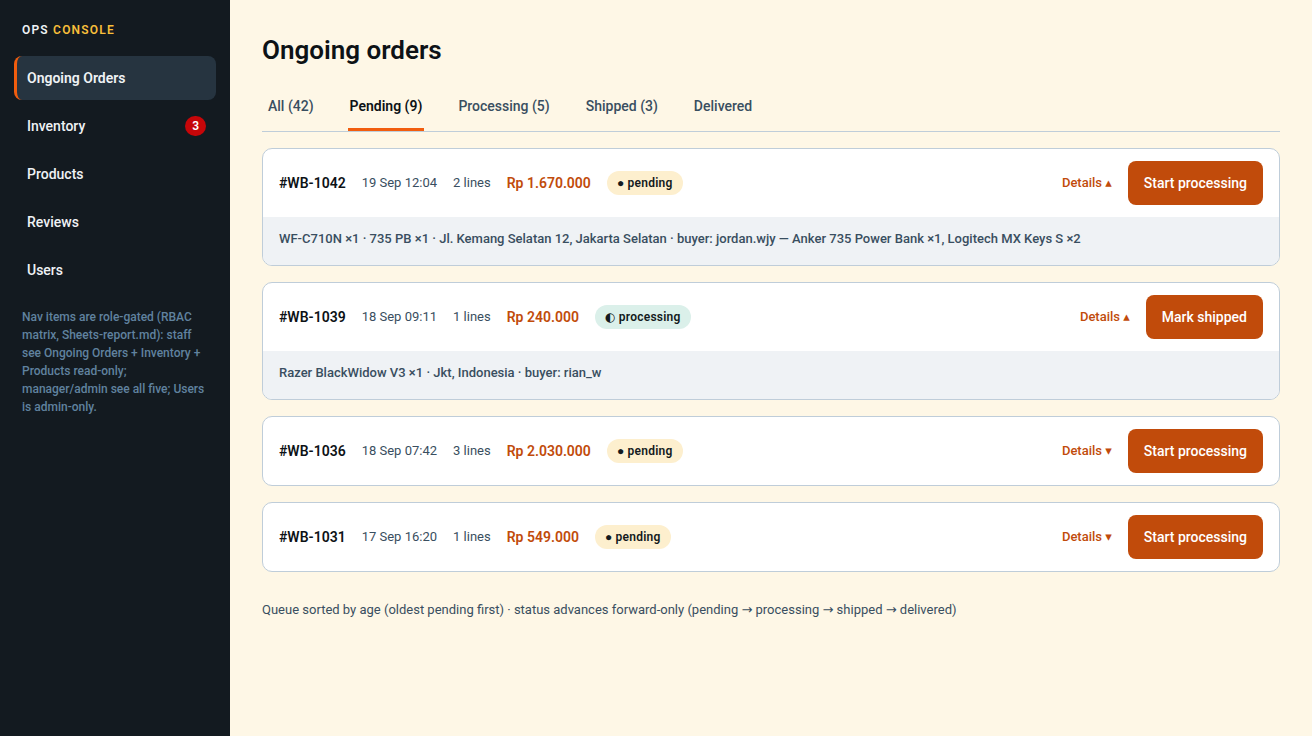
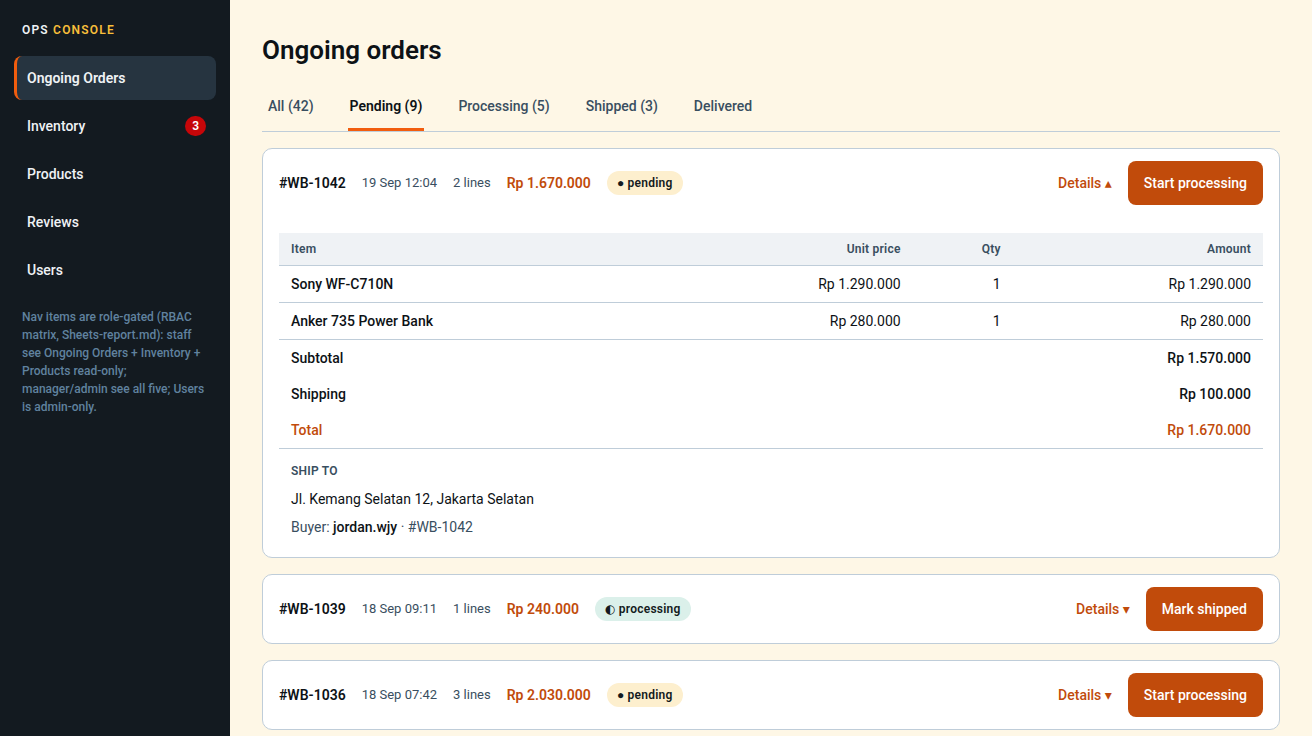
feat(mockup): round-9 receipt-style order details on ongoing-orders
pages_ops.py: orow() now renders a receipt table in the expanded detail —
itemized rows (Item/Unit price/Qty/Amount, amount cols right-aligned),
Subtotal/Shipping/Total rows (Total in atomicTangerine-600), and a Ship-to
block (address + buyer contact) below the table, wrapped in the existing
white order card. #WB-1042 expanded by default; all other rows collapse
to Details (arrow-down). Roboto 400/500, 14/20 rows, blueSlate-50 header
row, 1px blueSlate-200 dividers; 8px cell padding under 768px.

docs/ongoing-orders/design.md: receipt-table feature, wireframe, color
rows, mobile note. docs/ongoing-orders/mockup.png: re-rendered.
Conformance gate CLEAN vs lock 49b7610.

Changed region(s): [[0.1875, 0.3125, 1.0, 1.0], [0.8125, 0.2188, 0.8438, 0.2812]]

diff --git a/_mockup-build/pages_ops.py b/_mockup-build/pages_ops.py
@@ -50,6 +50,38 @@ padding:0 12px;font-size:14px;font-weight:500;color:var(--bs-950);background:#ff
 .hint{color:var(--sr-700);font-size:13px;font-weight:500}
 .btn-c{min-height:44px;padding:0 16px}
 .btn-s{min-height:44px;padding:0 16px}
+/* receipt-style order details (round 9, docs/ongoing-orders/design.md):
+   itemized table + totals + ship-to block inside the white order card */
+.receipt{font-family:var(--font-sans);font-size:14px;line-height:20px;font-weight:400;color:var(--bs-950)}
+.receipt table{width:100%;border-collapse:collapse}
+.receipt th{background:var(--bs-50);font-weight:600;font-size:12px;line-height:16px;letter-spacing:.02em;
+color:var(--bs-700);text-align:left;padding:8px 12px;border-bottom:1px solid var(--bs-200)}
+.receipt th.r{text-align:right}
+.receipt td{padding:8px 12px;border-bottom:1px solid var(--bs-200);font-weight:400}
+.receipt td.r{text-align:right}
+.receipt tr:last-child td{border-bottom:none}
+.receipt .line-name{font-weight:500}
+.receipt .totrow td{font-weight:500;border-bottom:none}
+.receipt .totrow.grand td{color:var(--at-600)}
+.receipt .ship{padding:12px 12px 4px;border-top:1px solid var(--bs-200)}
+.receipt .ship-h{font-size:12px;font-weight:600;letter-spacing:.02em;color:var(--bs-700);
+text-transform:uppercase;margin-bottom:8px}
+.receipt .ship-t{font-size:14px;line-height:20px;color:var(--bs-950)}
+.receipt .ship-c{margin-top:8px;font-size:14px;line-height:20px;color:var(--bs-700)}
+.receipt .ship-c b{font-weight:500;color:var(--bs-950)}
+@media (max-width:767px){
+.receipt th,.receipt td{padding:8px 8px}
+}
+/* expandable "Details" link: idle ▾, open ▴ */
+.details-link{color:var(--at-600);font-weight:500;font-size:14px;cursor:pointer}
+.details-link:hover{color:var(--at-700)}
+/* round 9 (docs/per-product-dashboard/design.md): repeatable name/value
+   spec-pair rows in the editor's Specs card — the section grid matches the
+   editor's 2-col `130px 1fr` label/value pattern; each value cell pairs the
+   input with a 44px trash remove control; "+ Add spec" appends an empty pair. */
+.specs-grid{display:grid;grid-template-columns:130px 1fr;gap:16px 24px;align-items:center}
+.specs-pair{display:grid;grid-template-columns:1fr 44px;gap:24px;align-items:center;min-height:44px}
+.specs-trash{justify-self:end;width:44px;height:44px;min-width:44px;min-height:44px;padding:0}
 /* round 6 (docs/per-product-review-panel/design.md): no .approve — reviews are public on
    submission; the only actions are hide/unhide + seller comment. Unhide is reversible,
    non-destructive → willowGreen-600 text on the secondary shape, not danger-colored. */
@@ -152,6 +184,23 @@ PAGES["per-product-dashboard"] = ops_shell(
           <div class="input wfull" style="min-height:64px;font-size:14px;color:var(--bs-950)">Active noise cancellation, Bluetooth 5.3 multipoint, up to 13 h battery with case, IPX4.</div>
           <label class="label">Initial stock</label><input class="input wfull" style="max-width:120px" value="34">
         </div>
+        <!-- round 9 (docs/per-product-dashboard/design.md): repeatable name/value
+             spec-pair section — mirrors the product-details specs table (same 6
+             pairs for P-231). White surface card per round-8 §12 rule. -->
+        <div style="margin-top:24px;padding-top:16px;border-top:1px solid var(--bs-200)">
+          <div class="sec-label" style="margin-bottom:16px">Specs</div>
+          <div style="background:#fff;border:1px solid var(--bs-200);border-radius:12px;padding:16px">
+            <div class="specs-grid">
+              <div class="specs-row"><input class="input wfull" value="Model" aria-label="Spec name" style="min-height:44px"><div style="display:grid;grid-template-columns:1fr 44px;gap:24px;align-items:center;min-height:44px"><input class="input wfull" value="WF-C710N" aria-label="Spec value" style="min-height:44px"><button class="btn-del specs-trash" aria-label="Remove spec">{glyph("trash",16)}</button></div></div>
+              <div class="specs-row"><input class="input wfull" value="Bluetooth" aria-label="Spec name" style="min-height:44px"><div style="display:grid;grid-template-columns:1fr 44px;gap:24px;align-items:center;min-height:44px"><input class="input wfull" value="5.3, multipoint" aria-label="Spec value" style="min-height:44px"><button class="btn-del specs-trash" aria-label="Remove spec">{glyph("trash",16)}</button></div></div>
+              <div class="specs-row"><input class="input wfull" value="Battery" aria-label="Spec name" style="min-height:44px"><div style="display:grid;grid-template-columns:1fr 44px;gap:24px;align-items:center;min-height:44px"><input class="input wfull" value="13 h w/ case" aria-label="Spec value" style="min-height:44px"><button class="btn-del specs-trash" aria-label="Remove spec">{glyph("trash",16)}</button></div></div>
+              <div class="specs-row"><input class="input wfull" value="ANC" aria-label="Spec name" style="min-height:44px"><div style="display:grid;grid-template-columns:1fr 44px;gap:24px;align-items:center;min-height:44px"><input class="input wfull" value="yes" aria-label="Spec value" style="min-height:44px"><button class="btn-del specs-trash" aria-label="Remove spec">{glyph("trash",16)}</button></div></div>
+              <div class="specs-row"><input class="input wfull" value="IP rating" aria-label="Spec name" style="min-height:44px"><div style="display:grid;grid-template-columns:1fr 44px;gap:24px;align-items:center;min-height:44px"><input class="input wfull" value="IPX4" aria-label="Spec value" style="min-height:44px"><button class="btn-del specs-trash" aria-label="Remove spec">{glyph("trash",16)}</button></div></div>
+              <div class="specs-row"><input class="input wfull" value="Weight" aria-label="Spec name" style="min-height:44px"><div style="display:grid;grid-template-columns:1fr 44px;gap:24px;align-items:center;min-height:44px"><input class="input wfull" value="5.4 g per bud" aria-label="Spec value" style="min-height:44px"><button class="btn-del specs-trash" aria-label="Remove spec">{glyph("trash",16)}</button></div></div>
+            </div>
+            <button class="btn-sec btn-s" style="margin-top:16px">{glyph("plus",16)} Add spec</button>
+          </div>
+        </div>
         <div style="margin-top:24px;padding-top:16px;border-top:1px solid var(--bs-200);display:flex;justify-content:space-between;align-items:center">
           <span class="muted">Auto-decremented on each order — enter actual shelf count</span>
           <button class="btn-p">Save changes</button>
@@ -215,20 +264,43 @@ PAGES["per-product-review-panel"] = ops_shell(
     "Per Product Review Panel")
 
 # ---------------- ongoing orders ----------------
-def orow(oid, dt, lines_n, total, chipcls, chipicon, chiptext, action, expanded=False, detail=None):
-    exp = f'<div style="padding:12px 16px 16px;font-size:13px;color:var(--bs-700);background:var(--bs-50);border-radius:0 0 8px 8px">{detail}</div>' if expanded else ""
+def orow(oid, dt, lines_n, total, chipcls, chipicon, chiptext, action, expanded=False, receipt=None):
+    exp = ""
+    if expanded and receipt:
+        exp = f'<div class="receipt" style="padding:16px" aria-label="Order {oid} details">{receipt}</div>'
     act = f'<button class="btn-p btn-c">{action}</button>' if action else ""
     return f'''<div style="background:#fff;border:1px solid var(--bs-200);border-radius:10px;overflow:hidden;margin-bottom:16px">
-    <div style="display:flex;align-items:center;gap:16px;padding:12px 16px;min-height:64px">
-      <span style="font-weight:600;color:var(--bs-950)">{oid}</span>
+    <div style="display:flex;align-items:center;gap:16px;padding:12px 16px;min-height:64px;flex-wrap:wrap">
+      <span style="font-weight:600;color:var(--bs-950);font-size:14px">{oid}</span>
       <span class="opsub">{dt}</span>
       <span class="opsub">{lines_n} lines</span>
       <span class="price">{total}</span>
       <span class="ochip {chipcls}">{chipicon} {chiptext}</span>
       <div style="margin-left:auto;display:flex;gap:16px;align-items:center">
-        <a class="link" href="#">{"Details ▴" if expanded else "Details ▾"}</a>
+        <a class="details-link" href="#" aria-expanded="{"true" if expanded else "false"}">{"Details ▴" if expanded else "Details ▾"}</a>
         {act}
       </div></div>{exp}</div>'''
+
+def receipt(lines, subtotal, shipping, total, address, buyer, order_ref):
+    """lines: list of (name, unit_price, qty, line_amount) — amount columns right-aligned."""
+    rows = ""
+    for name, unit, qty, amt in lines:
+        rows += f'''<tr><td class="line-name">{name}</td><td class="r">Rp {unit}</td><td class="r">{qty}</td><td class="r">Rp {amt}</td></tr>'''
+    ship_line = "Free" if shipping == "0" else f"Rp {shipping}"
+    return f'''<table>
+    <thead><tr><th>Item</th><th class="r">Unit price</th><th class="r">Qty</th><th class="r">Amount</th></tr></thead>
+    <tbody>
+    {rows}
+    <tr class="totrow"><td colspan="3">Subtotal</td><td class="r">Rp {subtotal}</td></tr>
+    <tr class="totrow"><td colspan="3">Shipping</td><td class="r">{ship_line}</td></tr>
+    <tr class="totrow grand"><td colspan="3">Total</td><td class="r">Rp {total}</td></tr>
+    </tbody>
+    </table>
+    <div class="ship">
+      <div class="ship-h">Ship to</div>
+      <div class="ship-t">{address}</div>
+      <div class="ship-c">Buyer: <b>{buyer}</b> · {order_ref}</div>
+    </div>'''
 
 PAGES["ongoing-orders"] = ops_shell(
     "Ongoing Orders",
@@ -241,9 +313,11 @@ PAGES["ongoing-orders"] = ops_shell(
       <span class="tab">All (42)</span><span class="tab active">Pending (9)</span><span class="tab">Processing (5)</span><span class="tab">Shipped (3)</span><span class="tab">Delivered</span>
     </div>
     {orow("#WB-1042","19 Sep 12:04","2","Rp 1.670.000","ochip-pending","●","pending","Start processing",True,
-         "WF-C710N ×1 · 735 PB ×1 · Jl. Kemang Selatan 12, Jakarta Selatan · buyer: jordan.wjy — Anker 735 Power Bank ×1, Logitech MX Keys S ×2")}
-    {orow("#WB-1039","18 Sep 09:11","1","Rp 240.000","ochip-processing","◐","processing","Mark shipped",True,
-         "Razer BlackWidow V3 ×1 · Jkt, Indonesia · buyer: rian_w")}
+         receipt([("Sony WF-C710N","1.290.000","1","1.290.000"),
+                  ("Anker 735 Power Bank","280.000","1","280.000")],
+                 "1.570.000","100.000","1.670.000",
+                 "Jl. Kemang Selatan 12, Jakarta Selatan","jordan.wjy","#WB-1042"))}
+    {orow("#WB-1039","18 Sep 09:11","1","Rp 240.000","ochip-processing","◐","processing","Mark shipped")}
     {orow("#WB-1036","18 Sep 07:42","3","Rp 2.030.000","ochip-pending","●","pending","Start processing")}
     {orow("#WB-1031","17 Sep 16:20","1","Rp 549.000","ochip-pending","●","pending","Start processing")}
     <div class="meta" style="margin-top:auto;padding-top:12px">Queue sorted by age (oldest pending first) · status advances forward-only (pending → processing → shipped → delivered)</div>

diff --git a/docs/ongoing-orders/design.md b/docs/ongoing-orders/design.md
@@ -34,6 +34,13 @@ ops mirror of Orders Placed.
 - **Domain examples (electronics):** expanded detail shows line models +
   quantities (e.g. "Anker 735 Power Bank ×1, Logitech MX Keys S ×2"); no fields
   beyond the sheet's locked set (lines, address, buyer contact).
+- **Receipt-style detail (round 9):** the expanded detail is a receipt table,
+  not a single summary line — itemized rows (Item, Unit price, Qty, Amount —
+  amount columns right-aligned), then Subtotal / Shipping / Total rows (Total in
+  `atomicTangerine-600`), then a Ship-to block (address + buyer contact) below
+  the table, all inside the existing white order card. `#WB-1042` is expanded
+  by default in the mockup to show the receipt; all other rows collapse to
+  "Details ▾".
 - **Staff capability boundary:** staff can advance status and see alerts
   (their whole scope: "daily transaction ops: order status, product
   alerts"). No product CRUD, no review moderation, no user management —
@@ -54,7 +61,7 @@ ops mirror of Orders Placed.
 
 ![Ongoing orders dashboard mockup](mockup.png)
 
-> mockup.png rendered from _mockup-build/out/ongoing-orders.html via headless Chromium @ 2026-09-22
+> mockup.png rendered from _mockup-build/out/ongoing-orders.html via headless Chromium @ 2026-09-23 (round-9 receipt-table refresh)
 
 
 ASCII wireframe (desktop, list variant — assumption, kanban is a flagged alt;
@@ -67,18 +74,29 @@ vertical 230px dark ops sidebar, not a top bar):
 | > Ongoing Orders | All(42)  Pending(9)  Processing(5)  Shipped(3)  Delivered |
 | Inventory [3]    |+-------------------------------------------------------|
 | Products         | | #WB-1042 · 19 Sep 12:04 · 2 lines · Rp 1.670.000 [● pending] |
-| Reviews          | |   [ Start processing ]  [ Details ▴ ]                |
-| Users            | |   (detail: WF-C710N ×1 · 735 PB ×1 · Jl. Kemang Selatan 12,  |
-|                  | |    Jakarta Selatan · buyer: jordan.wjy)               |
+| Reviews          | |   [ Start processing ]   [ Details ▴ ]             |
+| Users            | |   +-------------------------------------------+   |
+|                  |   | Item              | Unit price | Qty | Amount |   |
+|                  |   | Sony WF-C710N     | 1.290.000  |  1 | 1.290.000|   |
+|                  |   | Anker 735 PB      | 280.000    |  1 | 280.000  |   |
+|                  |   | Subtotal          |            |    | 1.570.000|   |
+|                  |   | Shipping          |            |    | 100.000  |   |
+|                  |   | Total             |            |    | 1.670.000|   |
+|                  |   | SHIP TO: Jl. Kemang Selatan 12, Jakarta Selatan     |   |
+|                  |   | Buyer: jordan.wjy · #WB-1042                    |   |
+|                  |   +-------------------------------------------+   |
 |                  |+-------------------------------------------------------|
-|                  | | #WB-1039 · 18 Sep 09:11 · 1 lines · Rp 240.000 [◐ processing]|
-|                  | |   [ Mark shipped ]      [ Details ▴ ]                |
+|                  | | #WB-1039 · 18 Sep 09:11 · 1 lines · Rp 240.000 [◐ processing] |
+|                  | |   [ Mark shipped ]      [ Details ▾ ]                |
 |                  | Queue sorted by age · status advances forward-only      |
 +------------------+-------------------------------------------------------+
 ```
 
 Mobile (<768px): cards stack; filter tabs scroll horizontally; expand
-details in place.
+details in place. The receipt table tightens its cell padding to 8px so all
+four columns (Item / Unit price / Qty / Amount) stay on one row at 390px —
+verified no horizontal overflow; order header rows wrap (flex-wrap) rather
+than clip.
 
 ## COLOR USAGE
 
@@ -89,6 +107,9 @@ details in place.
 | Status chips (pending/processing/shipped/delivered) | 12/600 pill chips, padding 4×10, per color-tokens §3: `tuscanSun-100` / `seagrass-100` / `blueSlate-100` / `willowGreen-100` tints, text `blueSlate-900` |
 | Advance button (primary per row) | filled `atomicTangerine-600` idle → `-700` hover → `-800` active, white 14/500 label, 44px min-height, 8px radius; disabled = `blueSlate-100` fill + `blueSlate-400` label |
 | "Details" toggle | `atomicTangerine-600` link |
+| Receipt table header row (`.receipt th`) | `blueSlate-50` bg, 12/600 `blueSlate-700` label, 1px `blueSlate-200` divider below |
+| Receipt item rows / totals rows | 14/20 Roboto 400; item name weight 500; Subtotal/Shipping weight 500 `blueSlate-950`; Total row weight 500 in `atomicTangerine-600` (frame cap: font-weight ≤ 600); 1px `blueSlate-200` row dividers (none under last row) |
+| Ship-to block (`.receipt .ship`) | 12/600 uppercase `blueSlate-700` "SHIP TO" label; address 14/20 `blueSlate-950`; buyer line 14/20 `blueSlate-700` with name weight 500; 1px `blueSlate-200` top divider |
 | Filter tabs active / idle | active `atomicTangerine-500` 3px underline + `blueSlate-950` text, weight 600; idle `blueSlate-700`, weight 500 |
 | Success flash (row after advance) | `willowGreen-100` row tint, `willowGreen-600` text |
 | Failure toast / banner | `strawberryRed-100` bg, `strawberryRed-600` text |
